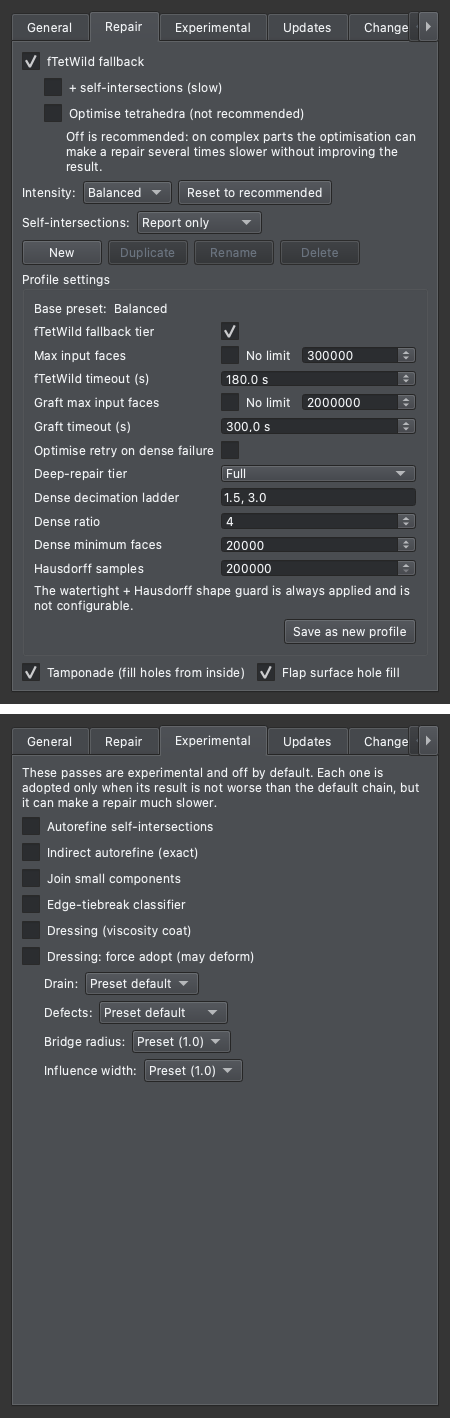
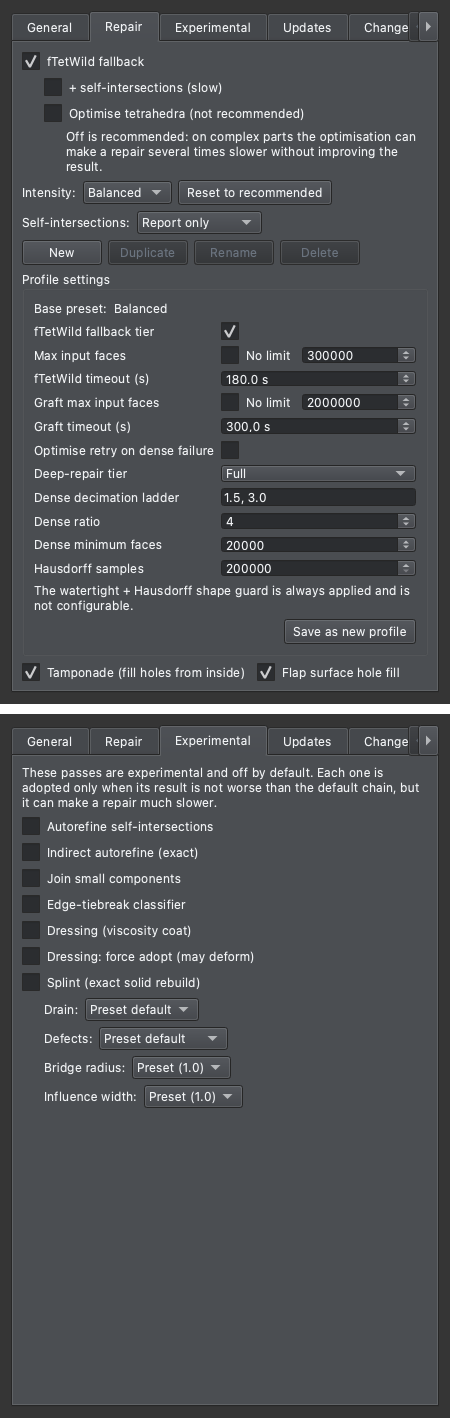
Release v0.9.2
Bump the version, finalize the [0.9.2] changelog and README version history, keep Splint #18 out of the automatic ranking (opt-in only), update the method-count test, and regenerate the GUI screenshots.

Changed region(s): [[0.0311, 0.6827, 0.5289, 0.7757]]

diff --git a/tests/test_diagnostics.py b/tests/test_diagnostics.py
@@ -42,7 +42,7 @@ def test_collect_system_info():
 
 def test_collect_methods_availability():
     methods = diagnostics.collect_methods_availability()
-    assert len(methods) == 17
+    assert len(methods) == 18
     ids = {m['id'] for m in methods}
     assert 'quick_clean' in ids
     assert 'tamponade' in ids
@@ -69,7 +69,7 @@ def test_create_diagnostics_zip():
             assert sys_info['sutura_version'] == res['version']
 
             avail = json.loads(zf.read('methods_availability.json'))
-            assert len(avail) == 17
+            assert len(avail) == 18
 
 
 def test_run_diagnostics_cli():

diff --git a/sutura/sutura_engine/methods/builtin/splint.py b/sutura/sutura_engine/methods/builtin/splint.py
@@ -26,6 +26,9 @@ METHOD = RepairMethod(
     # generic one-sided (input -> output) Hausdorff guard -- which would also
     # see the legitimate caps that close the openings -- is skipped.
     self_guarded=True,
+    # Opt-in only: keep it out of the automatic ranking (like Dressing and
+    # Wall Thicken); the user selects it explicitly.
+    needs_user_input=True,
     # The tier cannot run without the Rust Splint core: a present-but-stale
     # sutura_geom (no ``splint_cut``) is a FAIL in the health report, not a SKIP.
     core_required=True,

diff --git a/orcaslicer-plugin/sutura_repair_linux_x86_64.py b/orcaslicer-plugin/sutura_repair_linux_x86_64.py
@@ -6,7 +6,7 @@
 # name = "Sutura Repair"
 # description = "Sutura mesh repair in an OrcaSlicer dock panel: repairs the model parts on the plate with the Sutura CLI and loads the repaired copy back as a new object."
 # author = "Krateian"
-# version = "0.9.1"
+# version = "0.9.2"
 # ///
 """Sutura Repair - OrcaSlicer script plugin (v2, dock panel).
 

diff --git a/sutura/sutura_engine/diagnosis.py b/sutura/sutura_engine/diagnosis.py
@@ -347,7 +347,7 @@ def analyze_mesh(verts: np.ndarray, tris: np.ndarray, engine: str = 'experimenta
         return analysis
 
     # Cache lookup
-    version = '0.9.1'
+    version = '0.9.2'
     try:
         from repair import VERSION
         version = VERSION

diff --git a/sutura/sutura_engine/__init__.py b/sutura/sutura_engine/__init__.py
@@ -21,7 +21,7 @@ def _get_version():
                             return line.split('=')[1].strip().strip('\'"')
     except Exception:
         pass
-    return "0.9.1"
+    return "0.9.2"
 
 
 VERSION = _get_version()

diff --git a/sutura/repair.py b/sutura/repair.py
@@ -159,7 +159,7 @@ from sutura_engine.pipeline.cli import (
 )
 
 
-VERSION = "0.9.1"
+VERSION = "0.9.2"
 
 
 def process_file(src, human, mode='auto', profile=None, no_history=False,

diff --git a/README.tr.md b/README.tr.md
@@ -2311,6 +2311,12 @@ topluluğa bırakmaktır — ama şimdilik böyle devam.
 Yalnızca kullanıcıya yönelik özellik ekleyen sürümler listelenir (yalnızca
 düzeltme içeren sürümler atlanır). Ayrıntılı bilgi [CHANGELOG.md](CHANGELOG.md).
 
+- **v0.9.2 — 2026-10-21** — İsteğe bağlı kesin katı yeniden inşa katmanı
+  **Splint (#18)** (varsayılan kapalı; 40 mesh'lik korpusta değerlendirildi ve
+  henüz hiçbirinde benimsenmedi); `sutura --self-check`, `--diagnostics` ve
+  `--self-repair`; baskı-etkisi raporu; daha küçük çalışma zamanı
+  (trimesh/SciPy kaldırıldı, Manifold ve yerel geometri zorunlu Rust
+  çekirdeğinde); ve 3MF onarımlarında proje dosyasının korunması.
 - **v0.9.0 — 2026-10-11** — **Tamponad** (#17 yöntemi, varsayılan açık iç delik
   tıkacı; içten şişirilen **Stent** adayı ve büyük halkalar için çok-stent
   bölümlemesi; katı tıkaç kabul kuralları — sızıntı yok, yeniden yüklemede yeni

diff --git a/README.md b/README.md
@@ -2301,6 +2301,12 @@ community — but for now, it will continue like this.
 Only versions that added user-facing features are listed (bug-fix-only
 versions are skipped). Full detail in [CHANGELOG.md](CHANGELOG.md).
 
+- **v0.9.2 — 2026-10-21** — **Splint (#18)** as an opt-in exact solid-rebuild tier
+  (off by default; evaluated on the 40-mesh corpus and adopted on none so far);
+  `sutura --self-check`, `--diagnostics` and `--self-repair`; a print-impact
+  report; a smaller runtime (trimesh/SciPy removed, Manifold and the native
+  geometry in the mandatory Rust core); and 3MF repairs that preserve the
+  project file.
 - **v0.9.0 — 2026-10-11** — **Tamponade** (method #17, on-by-default interior hole plug
   with an inflate-from-inside **Stent** candidate and multi-stent partition for
   large loops; strict plug acceptance rules — no leak, no new holes/non-manifold

diff --git a/CHANGELOG.md b/CHANGELOG.md
@@ -2,7 +2,7 @@
 
 All notable changes to this project are documented here.
 
-## [Unreleased]
+## [0.9.2] - 2026-10-21
 
 ### Added
 
